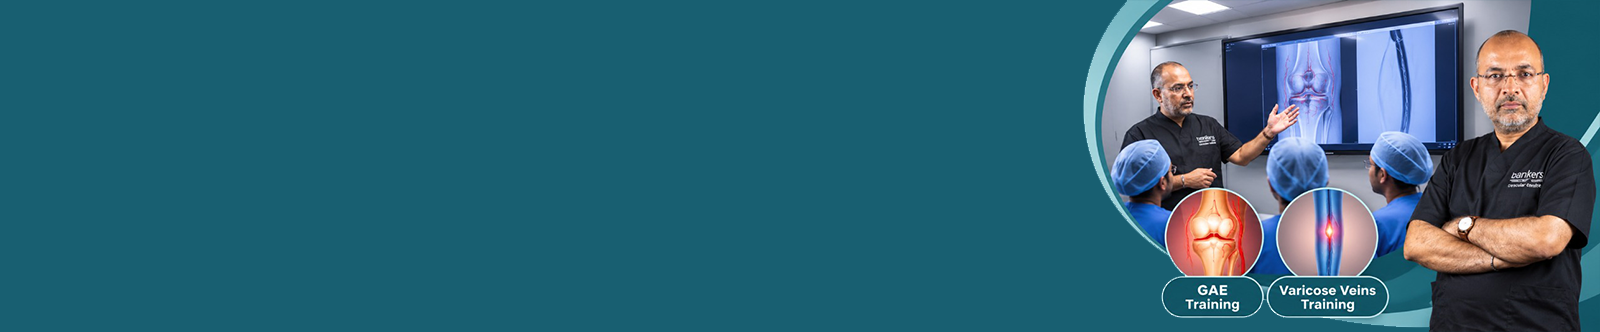
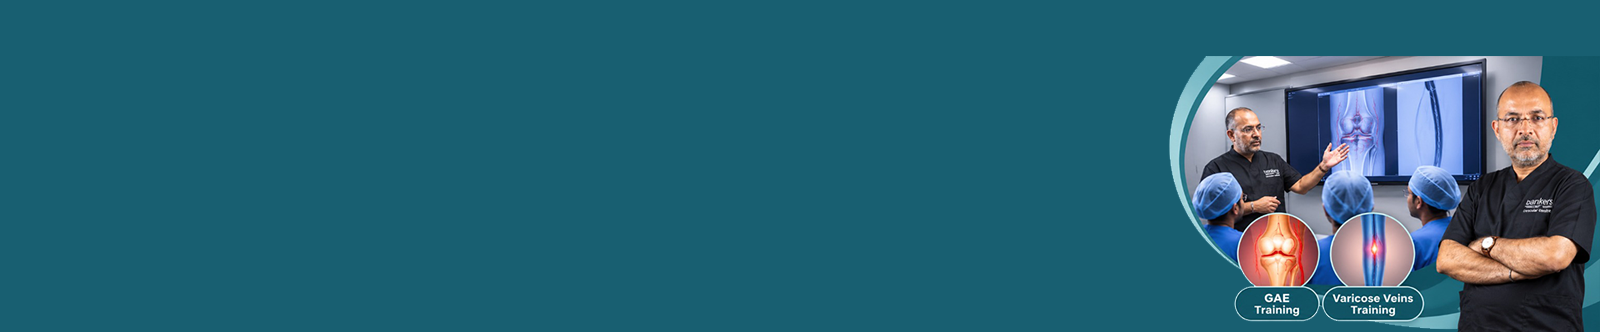
Update training hero artwork

Changed region(s): [[0.6562, 0.0, 1.0, 1.0]]

diff --git a/src/training.html b/src/training.html
@@ -16,7 +16,7 @@
   <meta content="Webflow" name="generator">
   <link href="css/normalize.css" rel="stylesheet" type="text/css">
   <link href="css/webflow.css" rel="stylesheet" type="text/css">
-  <link href="css/bankersvascular-419ec5b7a6b1caef19c5ab2.webflow.css?v=training-hero-wide-20261118" rel="stylesheet" type="text/css">
+  <link href="css/bankersvascular-419ec5b7a6b1caef19c5ab2.webflow.css?v=training-hero-wide-v2-20261118" rel="stylesheet" type="text/css">
   <link href="https://fonts.googleapis.com" rel="preconnect">
   <link href="https://fonts.gstatic.com" rel="preconnect" crossorigin="anonymous">
   <script src="https://ajax.googleapis.com/ajax/libs/webfont/1.6.26/webfont.js" type="text/javascript"></script>

diff --git a/src/css/bankersvascular-419ec5b7a6b1caef19c5ab2.webflow.css b/src/css/bankersvascular-419ec5b7a6b1caef19c5ab2.webflow.css
@@ -15535,7 +15535,7 @@ figure {
 /* Training page only: use the supplied education artwork and keep the
    certification banner compact on desktop. */
 .about-hero-section.about.frozen.training-hero-compact {
-  background-image: url('../images/training-doctors-knee-education.png?v=training-hero-wide-20261118');
+  background-image: url('../images/training-doctors-knee-education.png?v=training-hero-wide-v2-20261118');
   background-position: center center;
   background-size: cover;
 }
